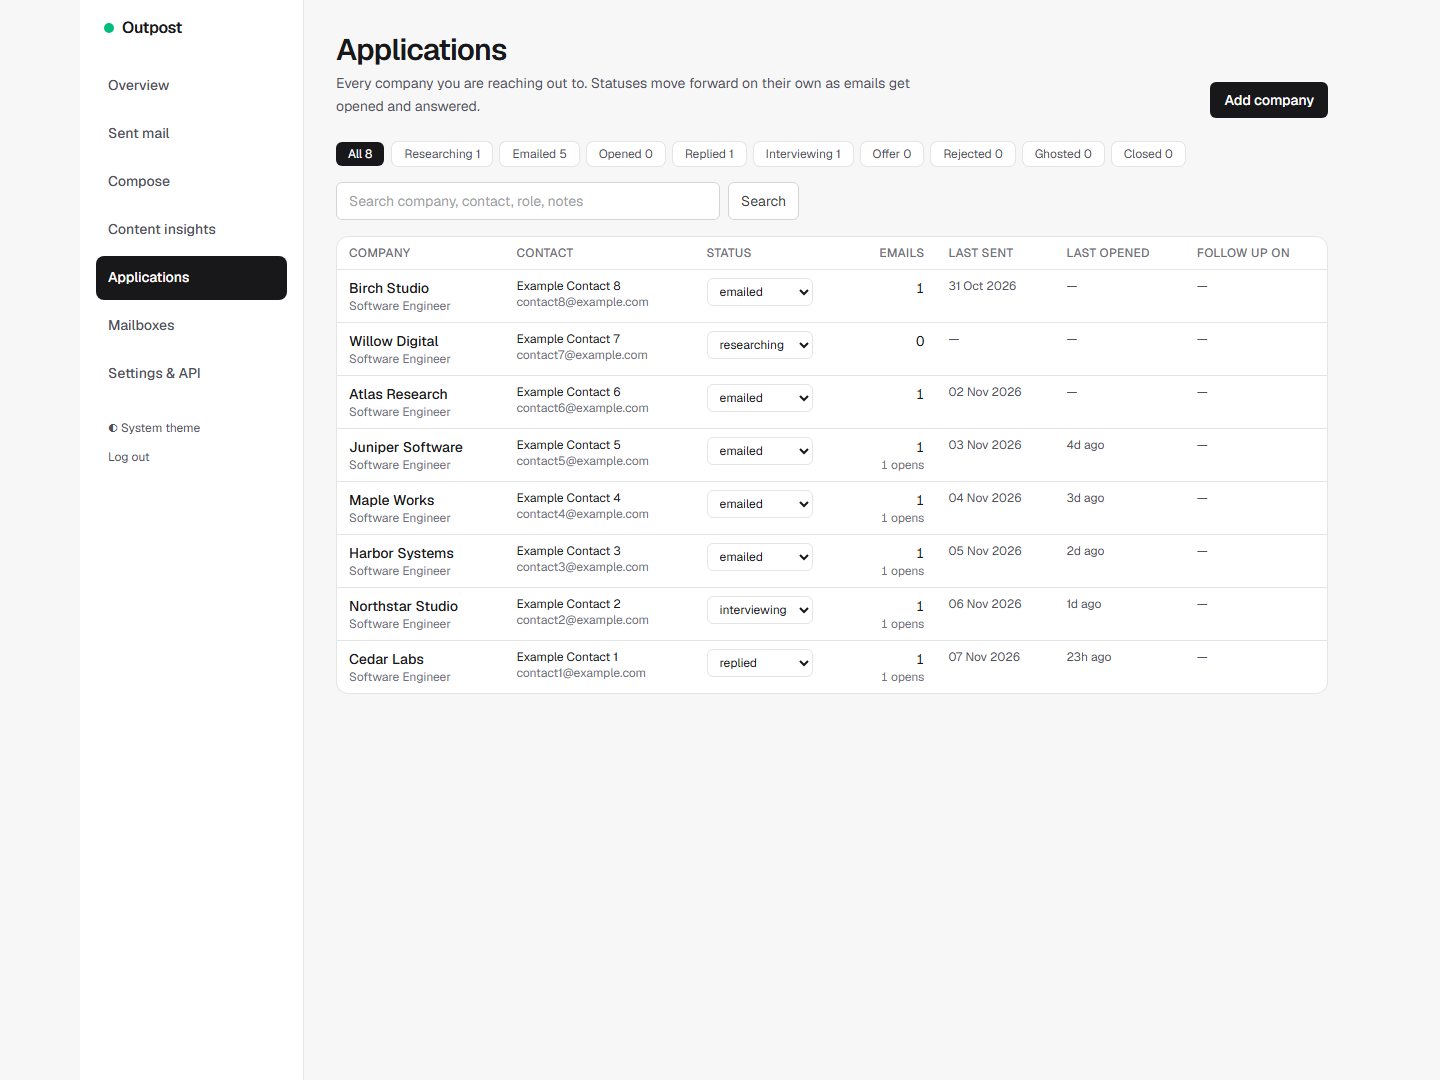
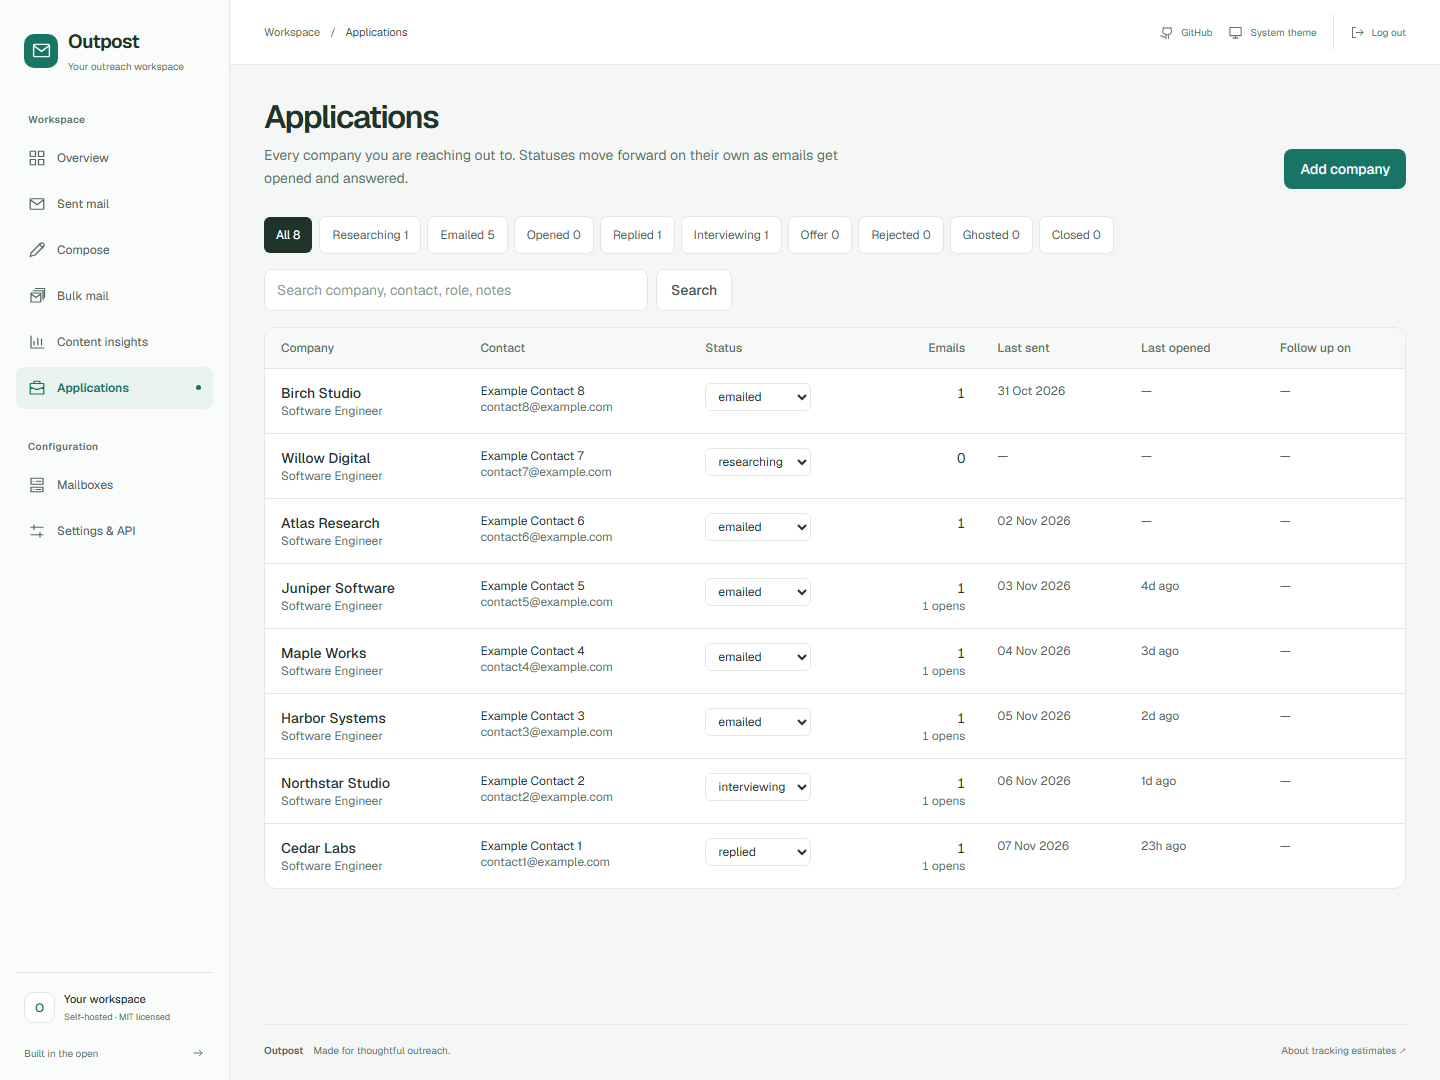
docs: refresh desktop mobile and dark-mode product screenshots

diff --git a/README.md b/README.md
@@ -127,6 +127,10 @@ These are real app screens captured with fictional data in a disposable local da
 
 ![Outpost application pipeline with fictional data](docs/screenshots/applications.png)
 
+![Outpost bulk recipient import](docs/screenshots/bulk.png)
+
+The workspace also supports [dark mode](docs/screenshots/overview-dark.png) and [mobile layouts](docs/screenshots/overview-mobile.png).
+
 To regenerate: `npm ci`, `npx playwright install chromium`, `npm run build`, then `npm run screenshots`. This runs the isolated smoke checks and captures the fixture dashboard without using your database or sending mail.
 
 ## Deploy your own installation
